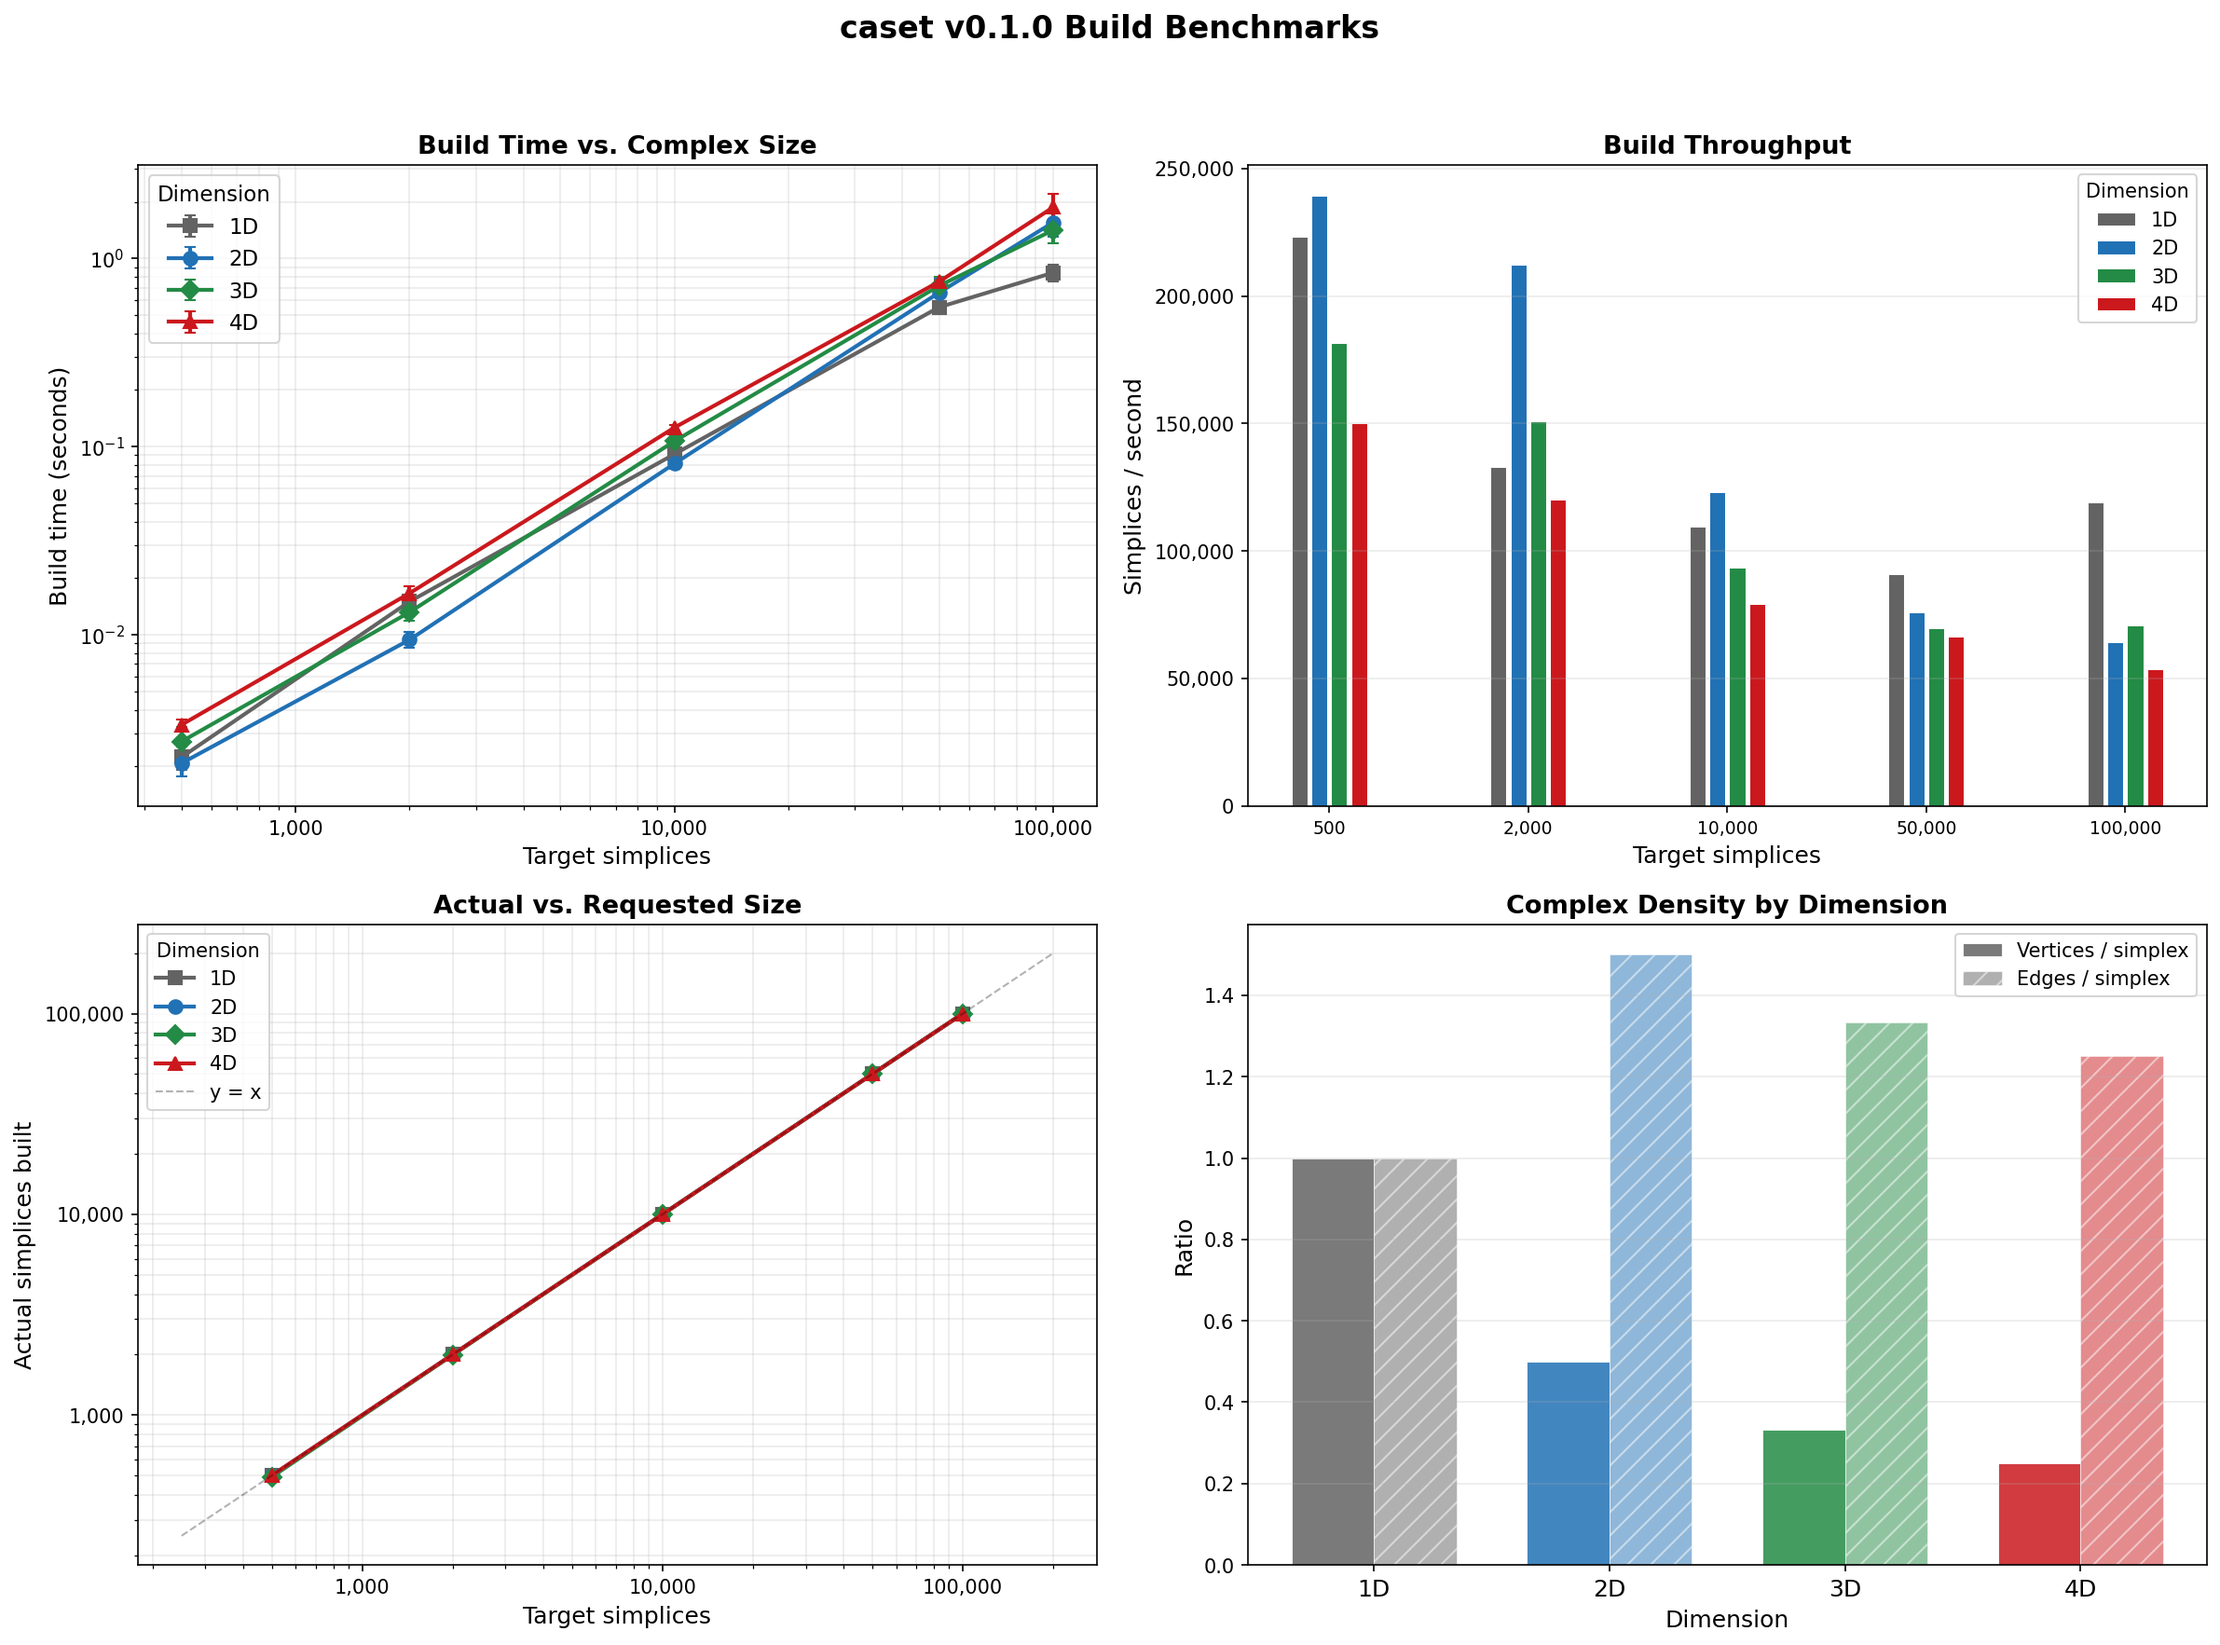
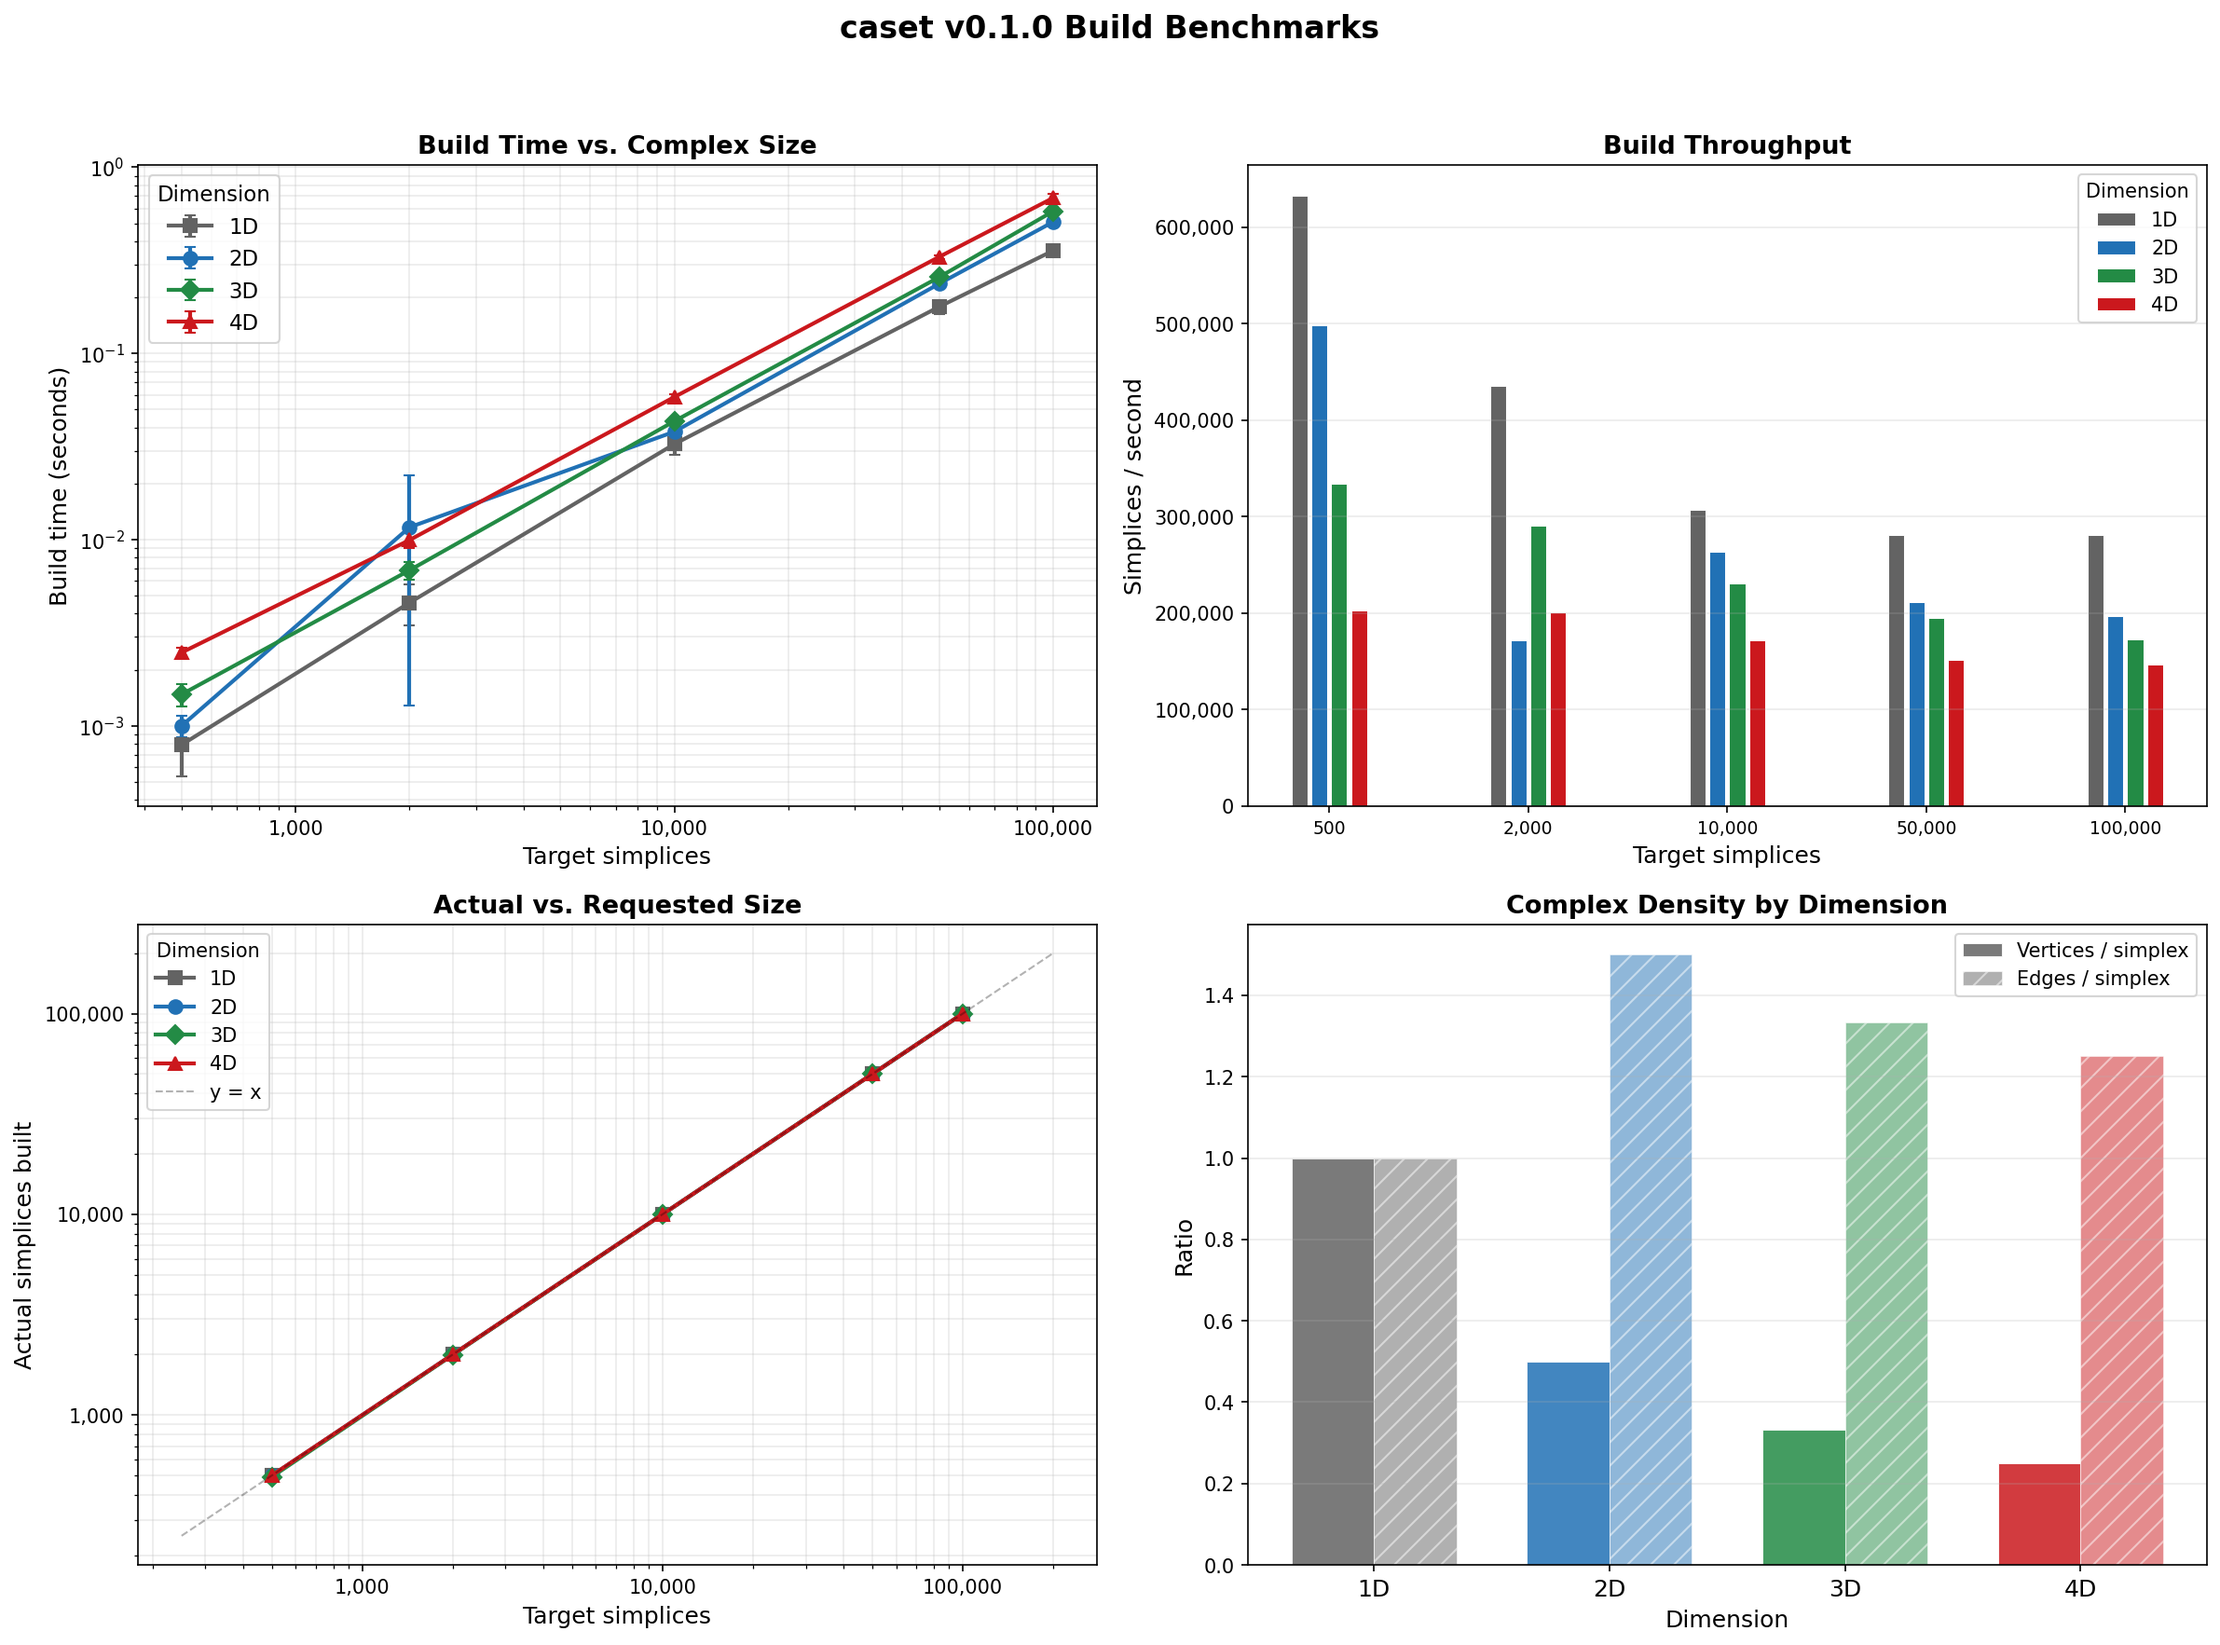
Added a new benchmark

diff --git a/docs/source/benchmarks.md b/docs/source/benchmarks.md
@@ -39,10 +39,10 @@ $d + 1$ vertices that must be linked into the triangulation.
 
 ## Build Throughput
 
-Throughput (simplices per second) is highest in 2D (~70,000--95,000 simpl/s)
-and decreases with dimension as the per-simplex bookkeeping grows.  4D
-sustains ~30,000 simpl/s, meaning a 100k-simplex triangulation builds in
-about 3 seconds.
+Throughput (simplices per second) is highest in 1D--2D (~200,000--500,000
+simpl/s) and decreases with dimension as the per-simplex bookkeeping
+grows.  4D sustains ~150,000 simpl/s at 100k simplices, meaning a
+100k-simplex triangulation builds in under 1 second.
 
 ```{image} assets/benchmarks/build_throughput.png
 :alt: Bar chart of build throughput by dimension and target size
@@ -87,58 +87,58 @@ completeness but are not directly comparable to 2D--4D.
   - Time (s)
 * - 2D
   - 500
+  - 498
+  - 252
+  - 750
+  - 0.001
+* - 2D
+  - 10,000
+  - 9,996
+  - 5,001
+  - 14,997
+  - 0.038
+* - 2D
+  - 100,000
+  - 99,996
+  - 50,001
+  - 149,997
+  - 0.509
+* - 3D
   - 500
-  - 514
-  - 1,007
+  - 492
+  - 168
+  - 662
   - 0.002
-* - 2D
-  - 10,000
-  - 10,000
-  - 10,042
-  - 20,021
-  - 0.042
-* - 2D
-  - 100,000
-  - 100,000
-  - 100,092
-  - 200,046
-  - 0.64
 * - 3D
+  - 10,000
+  - 9,996
+  - 3,336
+  - 13,334
+  - 0.043
+* - 3D
+  - 100,000
+  - 99,996
+  - 33,336
+  - 133,334
+  - 0.580
+* - 4D
   - 500
   - 500
-  - 521
-  - 1,521
+  - 130
+  - 635
   - 0.003
-* - 3D
-  - 10,000
-  - 10,000
-  - 10,063
-  - 30,063
-  - 0.061
-* - 3D
-  - 100,000
-  - 100,000
-  - 100,138
-  - 300,138
-  - 1.06
-* - 4D
-  - 500
-  - 500
-  - 528
-  - 2,042
-  - 0.004
 * - 4D
   - 10,000
   - 10,000
-  - 10,084
-  - 40,126
-  - 0.119
+  - 2,505
+  - 12,510
+  - 0.058
 * - 4D
   - 100,000
   - 100,000
-  - 100,184
-  - 400,276
-  - 2.26
+  - 25,005
+  - 125,010
+  - 0.684
 ```
 
 ---
@@ -176,9 +176,35 @@ current v{{version}} code.  The cumulative optimizations include:
 - **Eliminated dead return values** — `removeInEdge`/`removeOutEdge` were
   allocating a hash table of "owner" simplices on every call and returning
   it to nobody.
+- **Merged redundant hash tables** — consolidated `simplexVecIndex` and
+  `simplexPoolIndex_` into a single `simplexIndex_`, halving hash lookups
+  in `registerSimplex`/`unregisterSimplex`.
+- **Open-addressing flat hash map** — replaced `std::unordered_map` (chained
+  hashing) with a custom `FlatHashMap` using identity hash and linear
+  probing for the two hot-path simplex index tables. ~3x better cache
+  locality on lookup-heavy workloads.
+- **Eliminated `liveIndex_` maps** — stored the live-vector index directly on
+  `Edge` and `Vertex` objects, removing two `unordered_map`s (~5k entries
+  each) and their associated hash lookups on every add/remove.
+- **Inlined `computeDeltaAction` and `accept`** — moved the Metropolis
+  acceptance test and incremental action computation to the header,
+  eliminating function call overhead on every move attempt (~100k+/sec).
+- **Stack-allocated move temporaries** — replaced heap-allocated `std::vector`
+  with a fixed-capacity `StackVec<T, 8>` for vertex/simplex lists in flip,
+  iflip, and shift moves, eliminating `malloc`/`free` on every rejected
+  move attempt.
+- **Inline fingerprint cache on vertices** — added a parallel
+  `std::vector<uint64_t>` alongside the vertex simplex list so
+  `addSimplex`/`removeSimplex` can compare fingerprints without chasing
+  pointers to Simplex objects scattered across the heap (~68 entries).
+- **Orphaned sub-simplex cleanup** — facets whose last coface is removed
+  are now evicted from the simplex index, preventing unbounded growth of
+  the hash tables during long simulations. Reduced the total/top simplex
+  ratio from 4.6x to 3.4x.
 
-Build time improvement is **30-65%** across the board, with sweep
-performance improving by up to **6x** at typical lattice sizes.
+Cumulative build-time improvement is **50-67%** at large lattice sizes,
+with sweep performance improving by up to **1.7x** (7.7 → 4.3 µs/move
+at N4=19k).
 
 ```{image} assets/benchmarks/benchmark_comparison.png
 :alt: Before vs. after benchmark comparison
